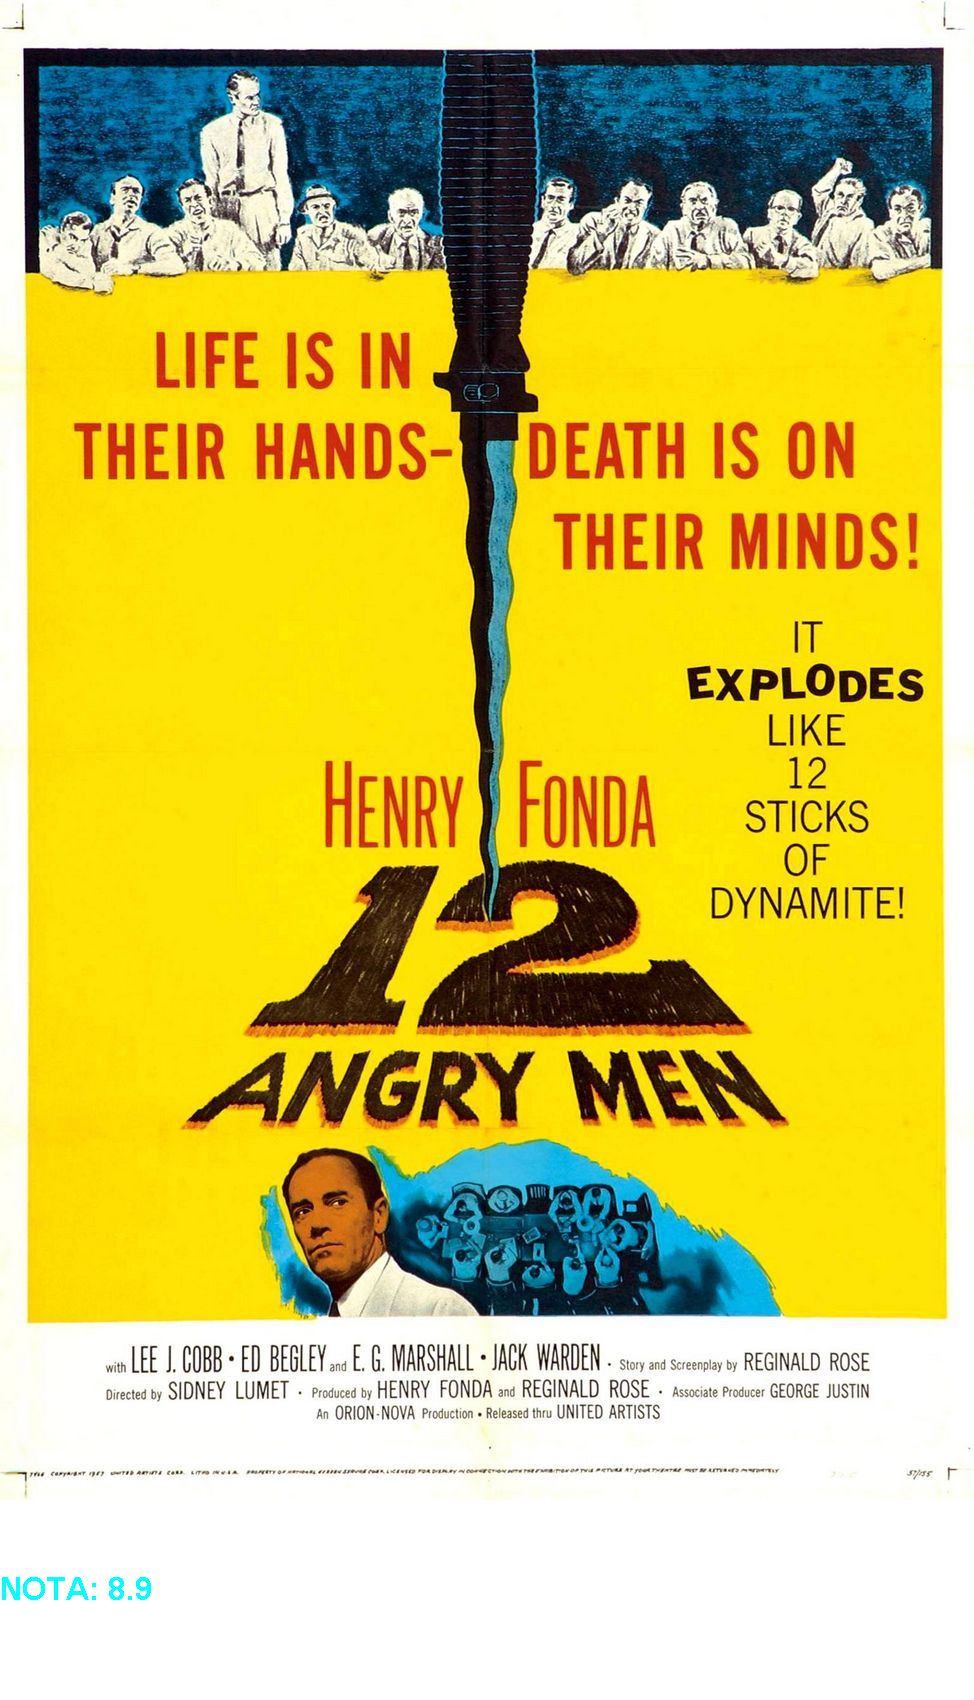
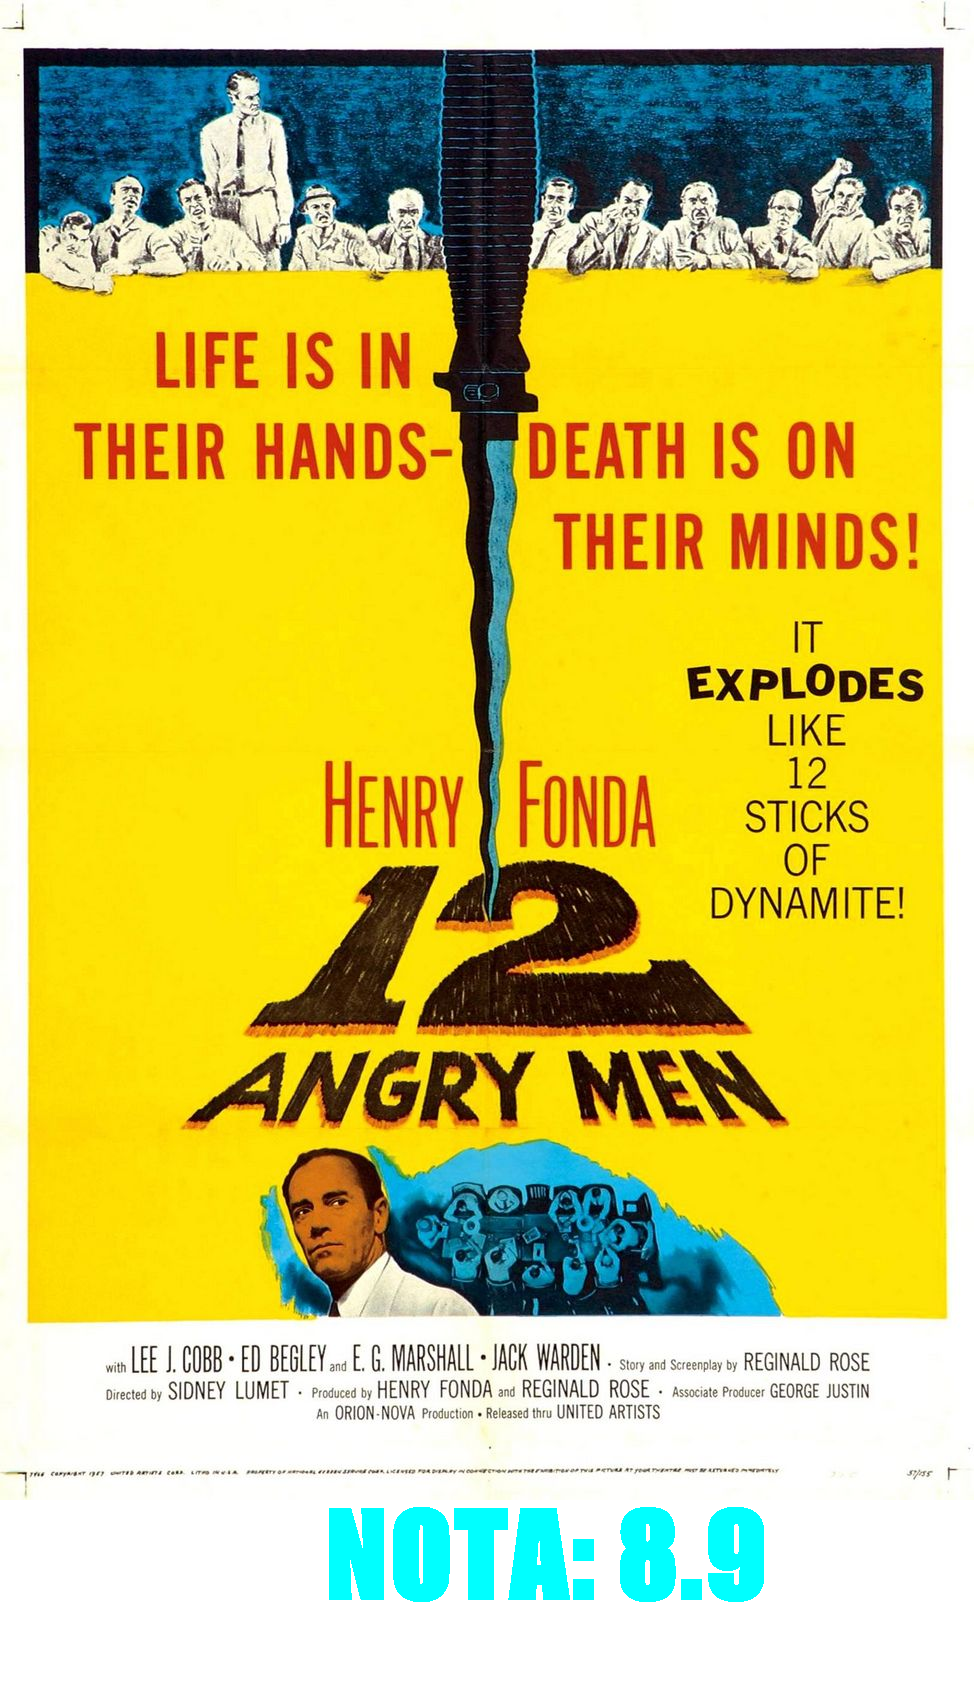
aula2

Changed region(s): [[0.3388, 0.8729, 0.8008, 0.9665], [0.0, 0.9041, 0.0616, 0.9353]]

diff --git a/src/StickerGenerator.java b/src/StickerGenerator.java
@@ -25,10 +25,10 @@ public class StickerGenerator {
         graphics.drawImage(imagemOriginal, 0, 0, null);
 
         // escrever uma frase na nova imagem
-        Font fonte = new Font(Font.SANS_SERIF, Font.BOLD, 32);
+        Font fonte = new Font("Impact", Font.BOLD, 112);
         graphics.setFont(fonte);
         graphics.setColor(Color.CYAN);
-        graphics.drawString(stickerText, 0, novaAltura - 100);
+        graphics.drawString(stickerText, (width/3), novaAltura - 100);
 
         // escrever a nova imagem em um arquivo
         fileName = fileName.replace(":", "-"); // Substitui o ":" por "-" para evitar problemas com o Windows
